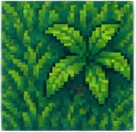
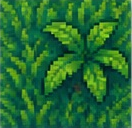
Smooth tile rendering and add two-way zone transitions
Crop the leftover white gutter border from the base tile PNGs
(ground/sand/tall grass/water/dock) that was creating a visible grid
of seams between adjacent tiles, and enable canvas image smoothing
(instead of nearest-neighbor) for tiles and the character sprite so
the world reads as one continuous surface instead of a pixel grid.

Zone transitions are now data-driven via a per-zone `exits` map keyed
by tile coordinate instead of a single hardcoded pier->island jump,
so the island's new southern exit tiles lead back to the pier at a
sensible re-entry point near the jungle boundary.

diff --git a/app.js b/app.js
@@ -181,6 +181,10 @@ function buildIslandMap() {
   const trees = [[13, 2], [14, 11], [8, 13], [21, 10], [12, 9]];
   trees.forEach(([x, y]) => { grid[y][x] = 'T'; });
 
+  // sentier sud : ramène vers la plage
+  grid[h - 1][12] = 'X';
+  grid[h - 1][13] = 'X';
+
   return { w, h, rows: grid.map((row) => row.join('')) };
 }
 
@@ -212,22 +216,34 @@ function buildPierMap() {
   return { w, h, rows: grid.map((row) => row.join('')) };
 }
 
+const ISLAND_SPAWN = { x: 5, y: 6 };
+const PIER_SPAWN = { x: 7, y: 8 }; // arrivée initiale, près du ponton
+const PIER_JUNGLE_ENTRY = { x: 7, y: 3 }; // retour depuis l'île, juste sous la lisière
+
 const ZONES = {
   island: {
     ...buildIslandMap(),
-    spawn: { x: 5, y: 6 },
+    spawn: ISLAND_SPAWN,
     weather: 'clear',
     encounterSpecies: null,
     encounterRate: 0.13,
     theme: 'island',
+    exits: {
+      '12,15': { zoneId: 'pier', spawn: PIER_JUNGLE_ENTRY, message: 'Vous redescendez vers la plage.' },
+      '13,15': { zoneId: 'pier', spawn: PIER_JUNGLE_ENTRY, message: 'Vous redescendez vers la plage.' },
+    },
   },
   pier: {
     ...buildPierMap(),
-    spawn: { x: 7, y: 8 },
+    spawn: PIER_SPAWN,
     weather: 'rain',
     encounterSpecies: ['compsognathus'],
     encounterRate: 0.16,
     theme: 'pier',
+    exits: {
+      '7,2': { zoneId: 'island', spawn: ISLAND_SPAWN, message: "Vous quittez la plage et pénétrez sur l'île." },
+      '8,2': { zoneId: 'island', spawn: ISLAND_SPAWN, message: "Vous quittez la plage et pénétrez sur l'île." },
+    },
   },
 };
 
@@ -740,7 +756,8 @@ function drawCarcassObject(ox, oy) {
 
 function drawImageTile(img, sx, sy, w = TILE, h = TILE, dx = 0, dy = 0) {
   if (!img) return false;
-  ctx.imageSmoothingEnabled = false;
+  ctx.imageSmoothingEnabled = true;
+  ctx.imageSmoothingQuality = 'high';
   ctx.drawImage(img, sx + dx, sy + dy, w, h);
   return true;
 }
@@ -909,7 +926,8 @@ function drawExplorer(px, py) {
   const dy = py + TILE - targetH;
 
   ctx.save();
-  ctx.imageSmoothingEnabled = false;
+  ctx.imageSmoothingEnabled = true;
+  ctx.imageSmoothingQuality = 'high';
   if (facingDir === 'left') {
     ctx.translate(dx + targetW, dy);
     ctx.scale(-1, 1);
@@ -995,8 +1013,11 @@ function onArriveTile() {
   const tile = tileAt(state.pos.x, state.pos.y);
 
   if (tile === 'X') {
-    changeZone('island', ZONES.island.spawn);
-    toast("Vous quittez la plage et pénétrez sur l'île.");
+    const exit = currentZone().exits?.[`${state.pos.x},${state.pos.y}`];
+    if (exit) {
+      changeZone(exit.zoneId, exit.spawn);
+      toast(exit.message);
+    }
     return;
   }
 

diff --git a/style.css b/style.css
@@ -367,7 +367,7 @@ h1, h2, h3 { font-family: 'Georgia', serif; margin: 0 0 8px; }
   display: block;
   width: 100%;
   height: auto;
-  image-rendering: -webkit-optimize-contrast;
+  image-rendering: auto;
 }
 
 .toast {
